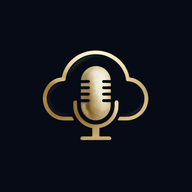
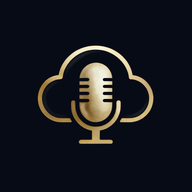
v1.28: 应用图标话筒放大至极限占满(84%)+ 视觉质心居中 + SW v6

Changed region(s): [[0.1875, 0.2188, 0.8125, 0.75]]

diff --git a/index.html b/index.html
@@ -751,7 +751,7 @@
 "use strict";
 
 /* 版本号：每次部署改这里即可（首页徽标与底部导航会自动同步） */
-const APP_VERSION = "v1.27";
+const APP_VERSION = "v1.28";
 const APP_DATE = "2026-09-05";
 
 /* ================================================================
@@ -1755,6 +1755,7 @@ const CHANGELOG = {
   version: APP_VERSION,
   date: APP_DATE,
   items: [
+    "桌面应用图标话筒放大、更大气",
     "首页标题加入品牌 logo",
     "应用图标背景统一为应用深底 #070B16"
   ]
@@ -1780,7 +1781,7 @@ else wireInfo();
  * SW_CACHE 必须与 sw.js 中的常量一致。
  * 无感：无按钮、无打扰，打开 app 即在后台把音频写进缓存，断网也能听。
  */
-const SW_CACHE = 'speakeasy-sw-v5'; // 与 sw.js 一致
+const SW_CACHE = 'speakeasy-sw-v6'; // 与 sw.js 一致
 
 // 从内联 AUDIO_MANIFEST 抽取全部音频 URL，第一关单词(w_) 排最前
 function allAudioUrls(){

diff --git a/sw.js b/sw.js
@@ -12,7 +12,7 @@
  *  - 不自动 skipWaiting：新版本由页面弹「点此刷新」，用户确认后才接管，
  *    避免学员练到一半被静默换版。
  */
-const SW_CACHE = 'speakeasy-sw-v5';
+const SW_CACHE = 'speakeasy-sw-v6';
 const SHELL = [
   './',
   './index.html',

diff --git a/make_icons.py b/make_icons.py
@@ -21,9 +21,11 @@ from PIL import Image, ImageChops
 TARGET_BG = (7, 11, 22)      # #070B16，与应用 --bg 一致
 BG_THR = 35                  # 背景判定阈值：像素与参考背景的「最大通道差」小于此值即视为背景
 
-# 前景在最终图标里的占比
-FILL_NORMAL = 0.80           # 普通图标内容占画布 80%
-FILL_MASKABLE = 0.64         # maskable 安全区要求：内容缩到中心 80% 区域内
+# 前景在最终图标里的占比（已先裁掉黑边留白并按视觉质心居中，故话筒图形本身即填满该比例）
+# 注意：fill 不是越大越好。圆角/异形图标需要四周留边距（iOS 圆角会切边），
+# 内容占比约 84%，已接近圆角安全区上限，让话筒最大化占满图标。
+FILL_NORMAL = 0.84           # 普通图标：话筒占画布 84%，极限饱满
+FILL_MASKABLE = 0.78         # maskable：内容占 78%，在安卓 80% 安全区内
 
 
 def extract_foreground(src_path):
@@ -50,7 +52,53 @@ def extract_foreground(src_path):
     mask = mx.point(lambda x: 0 if x < BG_THR else 255)
 
     bg_canvas = Image.new("RGB", (w, h), TARGET_BG)
-    return Image.composite(src, bg_canvas, mask)
+    fg = Image.composite(src, bg_canvas, mask)
+    return fg, mask
+
+
+def crop_to_visual_center(fg, mask):
+    """按前景金色像素的视觉质心（centroid）裁剪成正方形。
+
+    话筒+云的图形重心通常不在几何 bbox 中心（顶部云弧线重、底部支架轻），
+    直接用 bbox 居中会导致图标视觉上偏上。这里以所有金色像素的平均位置
+    作为视觉中心，裁剪出以该中心为中心、且能完整包含前景的最小正方形。
+    """
+    w, h = fg.size
+    bbox = mask.getbbox()
+    if not bbox:
+        return fg
+    left, top, right, bottom = bbox
+    sub_w = right - left
+    sub_h = bottom - top
+
+    # 在 bbox 内计算前景像素的质心（用 tobytes 避免 Pillow 14 移除 getdata）
+    sub_mask = mask.crop(bbox)
+    data = sub_mask.tobytes()
+    total = 0
+    sx = sy = 0
+    for i in range(len(data)):
+        if data[i]:
+            sx += i % sub_w
+            sy += i // sub_w
+            total += 1
+    if total == 0:
+        return fg.crop(bbox)
+    cx = left + sx / total
+    cy = top + sy / total
+
+    # 以质心为中心，覆盖整个前景的最小正方形半边长
+    half = int(max(cx - left, right - cx, cy - top, bottom - cy))
+    new_left = max(0, int(round(cx - half)))
+    new_top = max(0, int(round(cy - half)))
+    new_right = min(w, int(round(cx + half)))
+    new_bottom = min(h, int(round(cy + half)))
+
+    # 若因越界导致中心不对称，尽量保持中心位置（通常不会越界）
+    if new_right - new_left != new_bottom - new_top:
+        side = max(new_right - new_left, new_bottom - new_top)
+        new_right = new_left + side
+        new_bottom = new_top + side
+    return fg.crop((new_left, new_top, new_right, new_bottom))
 
 
 def render_icon(fg, size, fill):
@@ -73,7 +121,10 @@ def main():
     os.makedirs(out, exist_ok=True)
 
     print("正在从 assets/logo.png 提取前景并替换背景...")
-    fg = extract_foreground(src)
+    fg, mask = extract_foreground(src)
+    # 先按视觉质心裁剪，让话筒在云形轮廓里真正居中（避免 bbox 几何居中导致视觉上偏上）
+    fg = crop_to_visual_center(fg, mask)
+    print("  前景裁切后尺寸:", fg.size)
 
     jobs = [
         ("icon-192.png", 192, FILL_NORMAL),
